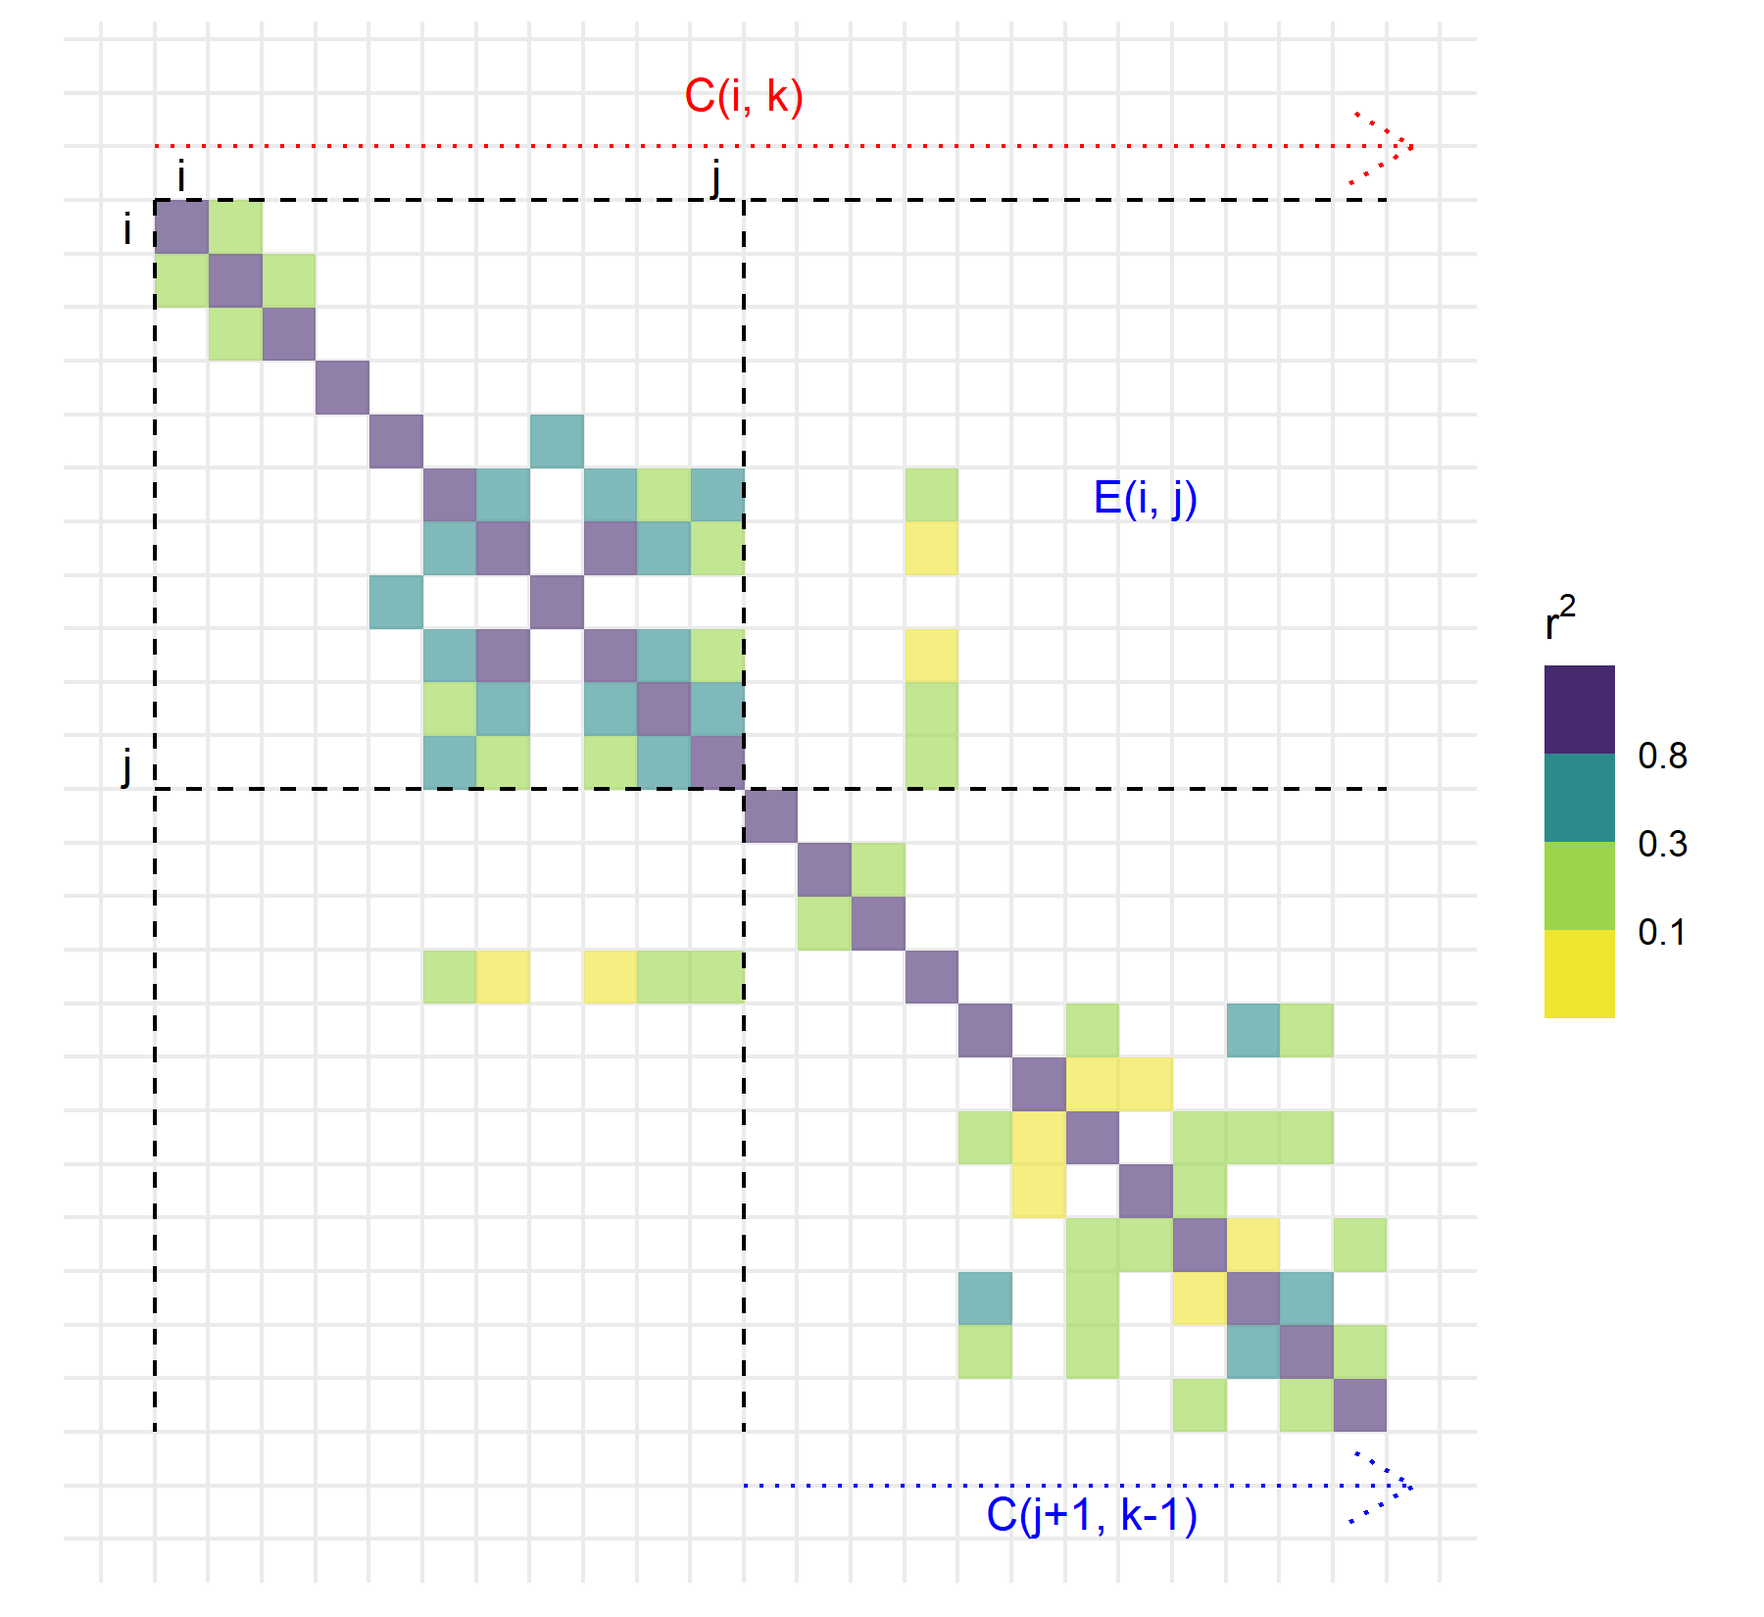
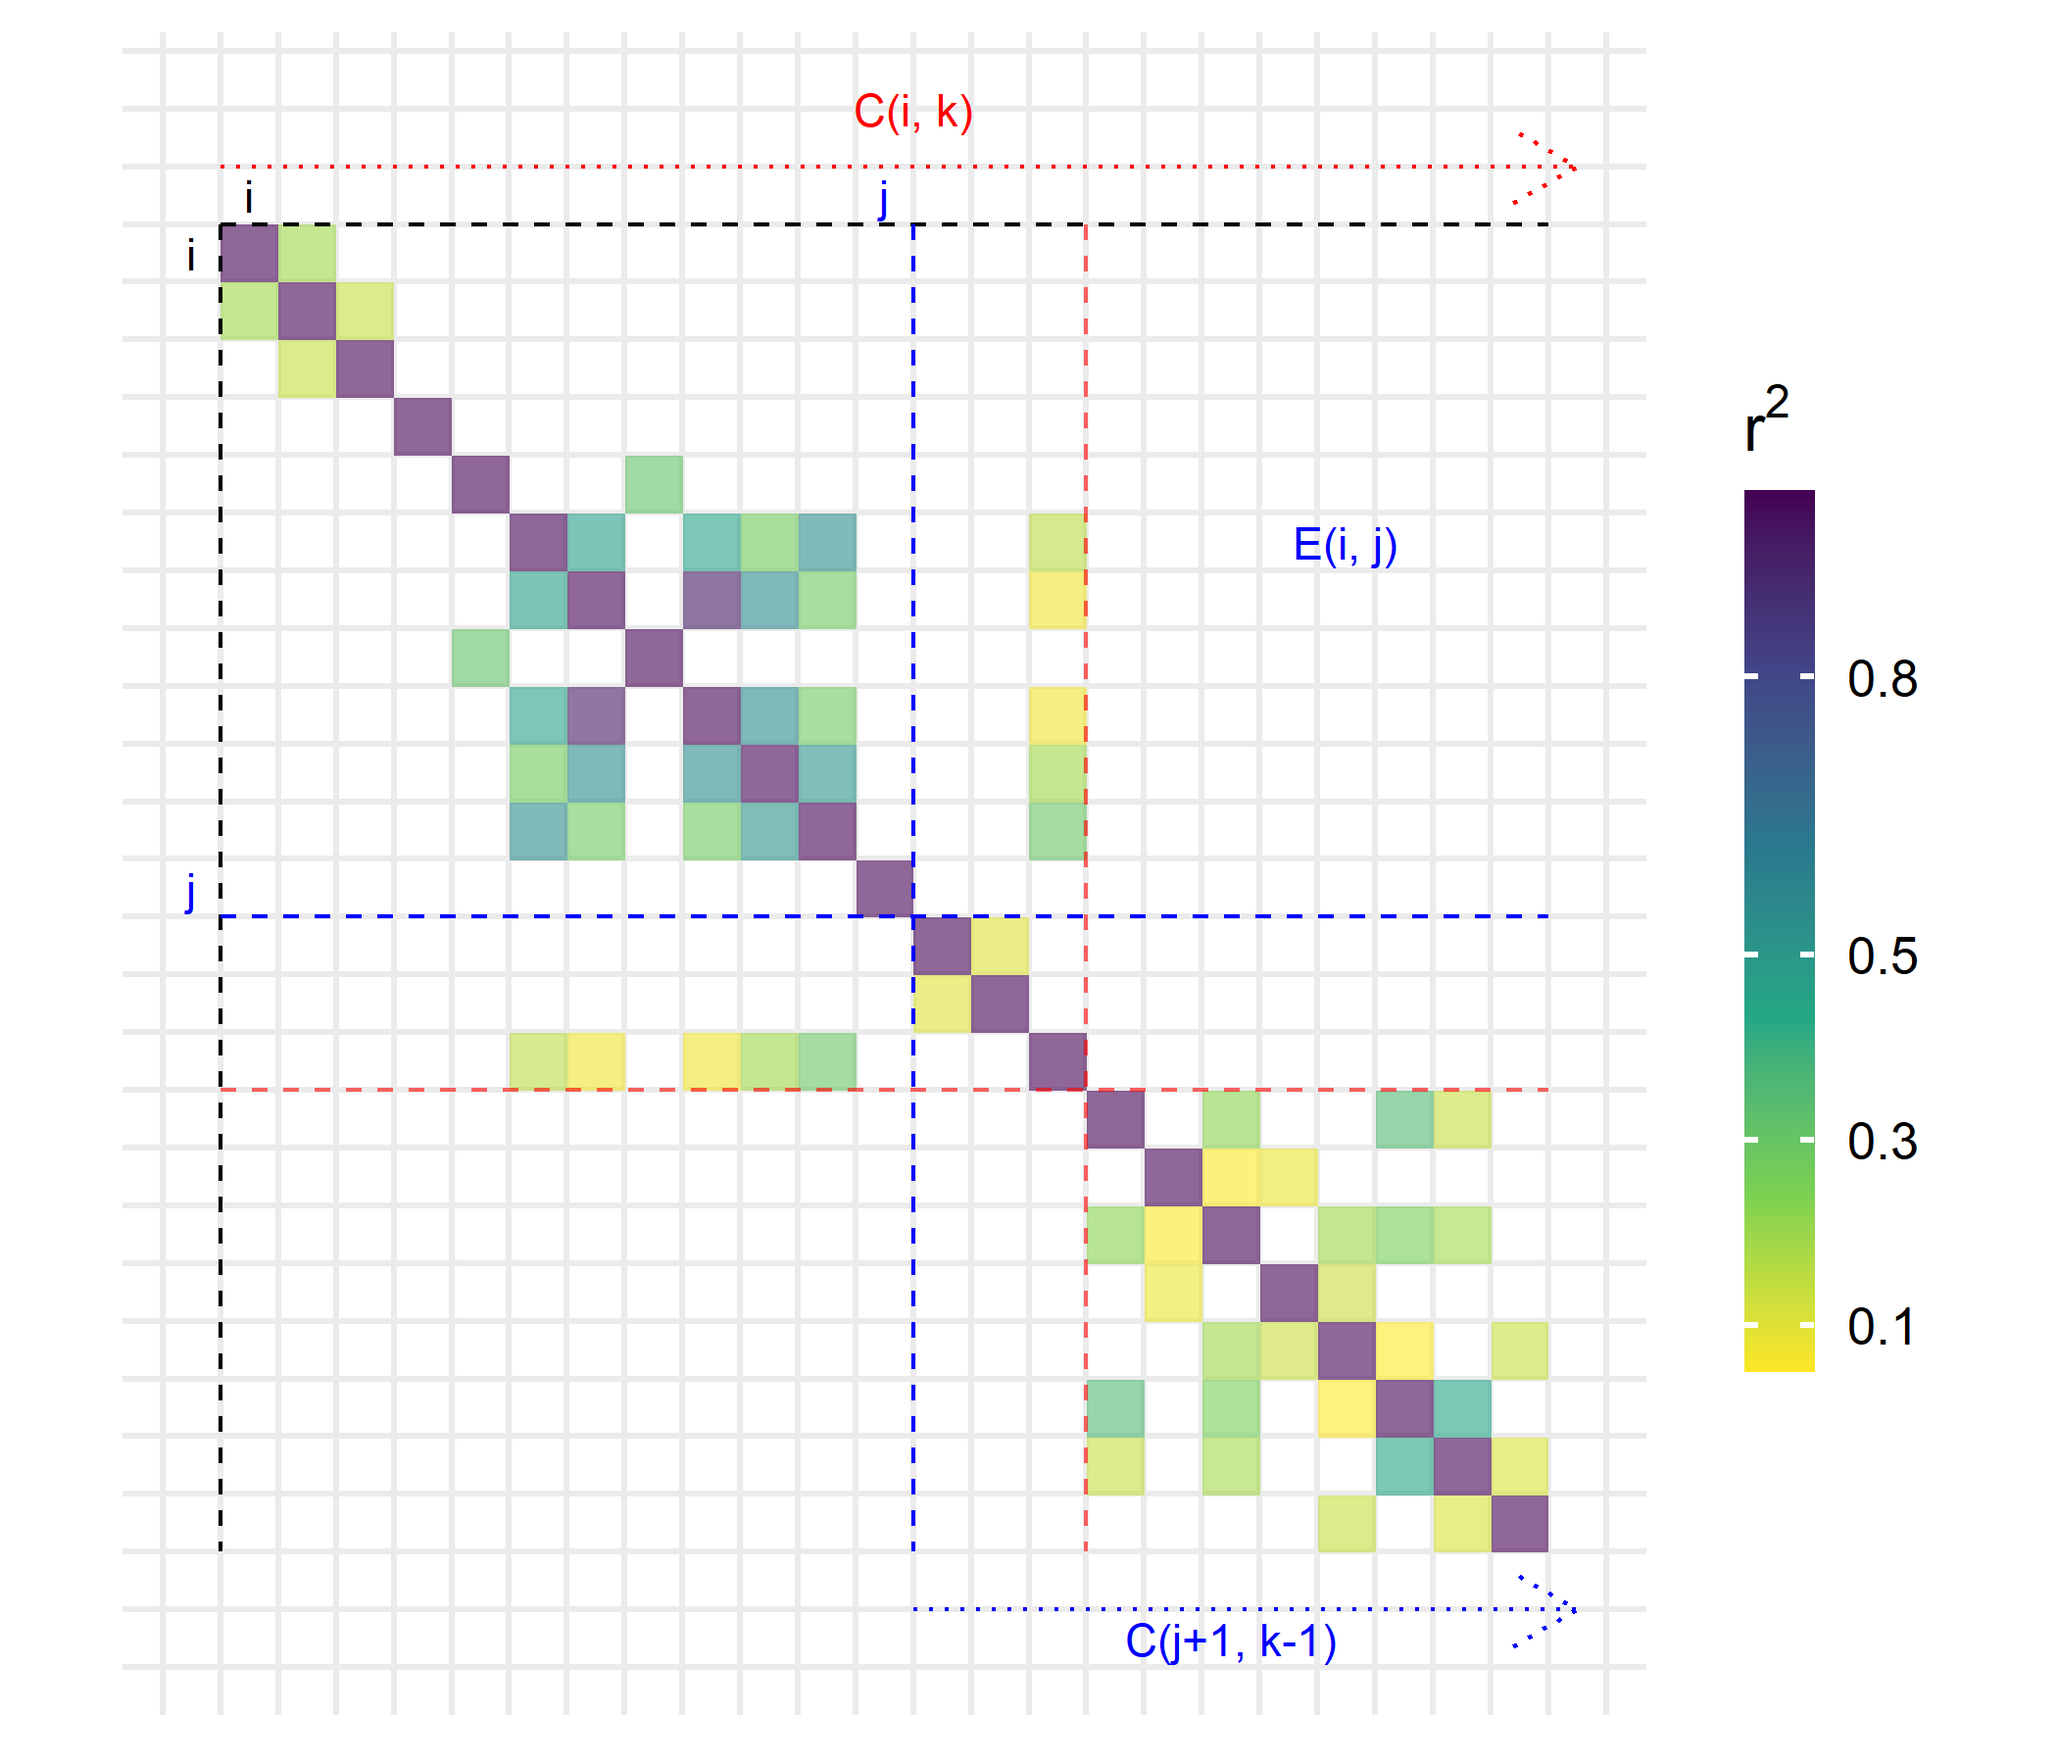
modify illu

diff --git a/paper-ldsplit.tex b/paper-ldsplit.tex
@@ -106,6 +106,7 @@ We aim at optimally splitting the genome into $K$ blocks, where each block has a
 This splitting is optimal in the sense that it minimizes the sum of squared correlations between variants from different blocks (hereinafter denoted as ``cost'').
 This problem is quite complex, and a naive implementation would be exponential with the number of variants.
 To solve this problem efficiently, we use dynamic programming, which consists in breaking a problem into sub-problems and then recursively finding the optimal solutions to the sub-problems.
+Dynamic programming has been successfully used before to solve related problems such as haplotype block partitioning \cite[]{zhang2002dynamic}.
 Here, each sub-problem consists in solving
 \begin{equation}
 C(i, k) = \min_j \left\lbrace E(i, j) + C(j + 1, k - 1) \right\rbrace ~,
@@ -119,7 +120,7 @@ $E$ is the largest matrix and requires approximately $m \times (\text{max\_size}
 \begin{figure}[h]
 	\centering
 	\includegraphics[width=0.8\textwidth]{illu.png}
-	\caption{Illustration of sub-problems solved by the algorithm using a small LD matrix. The cost of separating the region starting at variant $i$ in $k$ blocks exactly, $C(i, k)$, is broken down in two: the error $E(i,j)$, the sum of all squared correlations between variants from block $(i,j)$ and variants from all the later blocks, and the cost of separating the rest starting at $(j+1)$ using $(k-1)$ blocks. The variant $j$ at which the split occurs is chosen so that the cost $\left(E(i, j) + C(j + 1, k - 1)\right)$ is minimized.}
+	\caption{Illustration of sub-problems solved by the algorithm using a small LD matrix. The cost of separating the region starting at variant $i$ in $k$ blocks exactly, $C(i, k)$, is broken down in two: the error $E(i,j)$, the sum of all squared correlations between variants from block $(i,j)$ and variants from all the later blocks, and the cost of separating the rest starting at $(j+1)$ using $(k-1)$ blocks. The variant $j$ at which the split occurs is chosen so that the cost $\left(E(i, j) + C(j + 1, k - 1)\right)$ is minimized. The optimal split is highlighted in red here.}
 	\label{fig:illu}
 \end{figure}
 
